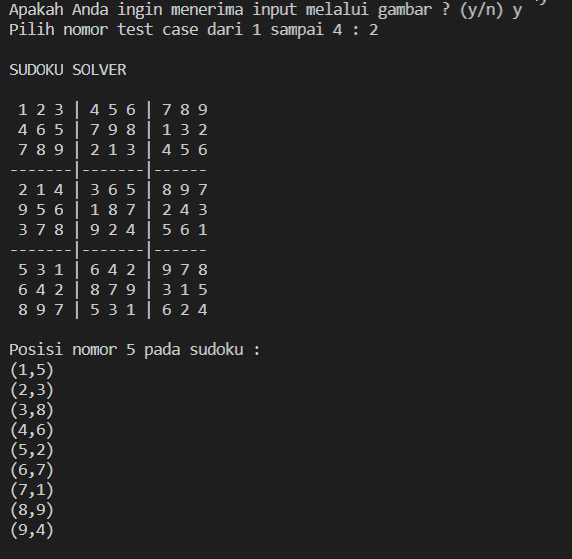
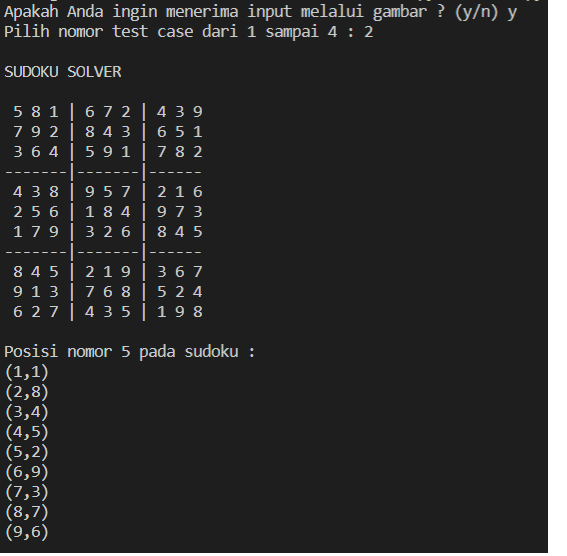
done fix error

Changed region(s): [[0.0, 0.0, 1.0, 1.0], [0.0, 0.1835, 0.3598, 0.5809]]

diff --git a/src/IOFile.py b/src/IOFile.py
@@ -4,14 +4,19 @@ import pytesseract
 pytesseract.pytesseract.tesseract_cmd = 'C:\\Program Files\\Tesseract-OCR\\tesseract.exe'
 
 def inputFromText(number) :
+    # Setting path and open file
     path = "../test/tc" + str(number) + ".txt"
     fileConfig = open(path, "r")
     lines = fileConfig.readlines()
     
+    # Inisialisasi array 2 dimensi untuk sudoku
     sudoku = [[0 for i in range(9)] for j in range(9)]
-    container = [[] for i in range(9)]
+    
+    # Traverse setiap row
     for i,line in enumerate(lines):
         nums = line.split(' ')
+
+        # Traverse setiap kolom
         for j,num in enumerate(nums) : 
             if num[-1] == '\n' :
                 num = num[0]
@@ -19,7 +24,6 @@ def inputFromText(number) :
             if num == '#' :
                 sudoku[i][j] = 0
             else :
-                container[i].append(int(num))
                 sudoku[i][j] = int(num)
 
         
@@ -27,28 +31,36 @@ def inputFromText(number) :
 
 
 def inputFromImage(number) :
+    # Inisialisasi
     sudoku = [[0 for i in range(9)] for j in range(9)]
     
+    # Open image
     path = "../test/image" + str(number) + ".png"
     image = Image.open(path)
 
+    # Mendapatkan lebar dan tinggi tiap grid
     row, col = image.size
     h, w = row/9, col/9
 
-    for i in range(4,5) :
+    for i in range(9) :
         for j in range(9) :
-            im = image.crop((4 + w*j, 4 + h*i, w*(j+1) - 2, h*(i+1) - 3))
+            # Crop grid dan memperhalus gambar untuk convert string yang lebih tepat
+            im = image.crop((4 + w*j, 4 + h*i, w*(j+1) - 4, h*(i+1) - 3))
             im = im.convert('RGBA')
             im = im.filter(ImageFilter.MedianFilter())
             enhancer = ImageEnhance.Contrast(im)
             im = enhancer.enhance(2)
 
+            # Convert string dan menangani kasus kesalahan convert untuk angka 5
             text = pytesseract.image_to_string(im, lang = 'eng', config='--psm 6')
-
             if text == '' :
                 text = '0'
-            if text == 'S' :
+            if text[0] == 'S' :
                 text = '5'
+            if text[0] == '2' : # Menangani kasus khusus kesalahan convert pada angka 2 yang menjadi '2?'
+                text = '2'
+            if text[0] == '&' or text[0] == 'g' : # Menangani kasus khusus kesalahan convert pada angka 8
+                text = '8'
 
             number = int(text)
             sudoku[i][j] = number
@@ -56,6 +68,7 @@ def inputFromImage(number) :
     return sudoku
 
 def outputFile(sudoku, isImage, num) :
+    # Setting path untuk image ataupun file sesuai dengan nomor test case
     path = "../result/"
     if isImage :
         path = path + "image" + str(num) + "-jawaban.txt"
@@ -73,14 +86,17 @@ def outputFile(sudoku, isImage, num) :
             print(" " + str(sudoku[i][j]), end="")
             f.write(" " + str(sudoku[i][j]))
             
+            # Batas grid
             if j%3 == 2:
+
+                # Grid terakhir
                 if j == 8 :
                     print("")
                     f.write("\n")
                     if i % 3 == 2 and i != 8:
                         print("-------|-------|------")
                         f.write("-------|-------|------\n")
-                else :
+                else : # Bukan grid terakhir
                     print(" |", end="")
                     f.write(" |")
 

diff --git a/README.md b/README.md
@@ -55,8 +55,8 @@ Setelah saya mencoba beberapa pendekatan untuk menyelesaikan permainan sudoku in
 ## Pengerjaan Bonus
 Untuk mengerjakan bonus ini, saya menggunakan 2 library yaitu pillow dan pytesseract. Alasan saya menggunakan Pillow pada pengerjaan bonus ini adalah karena pillow cukup mudah untuk di-install dan support untuk di windows dibanding openCV yang lebih sulit untuk di-install di Windows. Selain itu, pillow juga sudah cukup baik dalam melakukan tugasnya untuk processing image seperti pembacaan image, cropping image, dan juga filter image untuk memudahkan convert image to string nantinya. Sehingga penggunaan pillow sudah cukup untuk menyelesaikan bonus ini. Kelebihan pillow itu sendiri adalah karena kemudahannya dalam menginstall dan juga sudah memiliki banyak fitur yang dibutuhkan untuk melakukan image processing. Sedangkan kekurangannya adalah, pillow tidak sepopuler openCV untuk image processing, dan juga sejauh yang saya ketahui, untuk melakukan image processing untuk machine learning, orang-orang cenderung untuk menggunakan openCV karena performa yang lebih cepat dibanding pillow.  
 
-Alasan saya menggunakan pytesseract karena memiliki kemampuan untuk melakukan OCR. Kemampuan tersebut dibutuhkan untuk mengubah gambar menjadi text. Pada kasus ini adalah untuk mengubah gambar menjadi angka. Kelebihan dari pytesseract yang saya rasakan untuk pengerjaan bonus ini adalah mudahnya untuk melakukan pengubahan dari gambar menjadi teks yang hanya tinggal menjalankan satu baris fungsi yang disediakan oleh pytesseract. Kekurangannya adalah proses instalasi yang cukup rumit dan juga perlunya pengaturan yang dilakukan pada program untuk dapat menggunakan fungsi yang tersedia pada pytesseract. 
+Alasan saya menggunakan pytesseract karena memiliki kemampuan untuk melakukan OCR. Kemampuan tersebut dibutuhkan untuk mengubah gambar menjadi text. Pada kasus ini adalah untuk mengubah gambar menjadi angka. Kelebihan dari pytesseract yang saya rasakan untuk pengerjaan bonus ini adalah mudahnya untuk melakukan pengubahan dari gambar menjadi teks yang hanya tinggal menjalankan satu baris fungsi yang disediakan oleh pytesseract. Kekurangannya adalah proses instalasi yang cukup rumit dan juga perlunya pengaturan yang dilakukan pada program untuk dapat menggunakan fungsi yang tersedia pada pytesseract. Konversi dari image ke teks juga tidak selalu benar 100% dikarenakan image yang dibaca. Hal tersebut bisa terjadi mungkin saja karena image yang dibaca tidak terlalu jelas oleh pytesseract.
 
 ## Referensi
-1. https://auth0.com/blog/image-processing-in-python-with-pillow/
-2. https://pypi.org/project/pytesseract/
+1. Contoh penggunaan pillow : https://auth0.com/blog/image-processing-in-python-with-pillow/
+2. Dokumentasi pytesseract : https://pypi.org/project/pytesseract/
